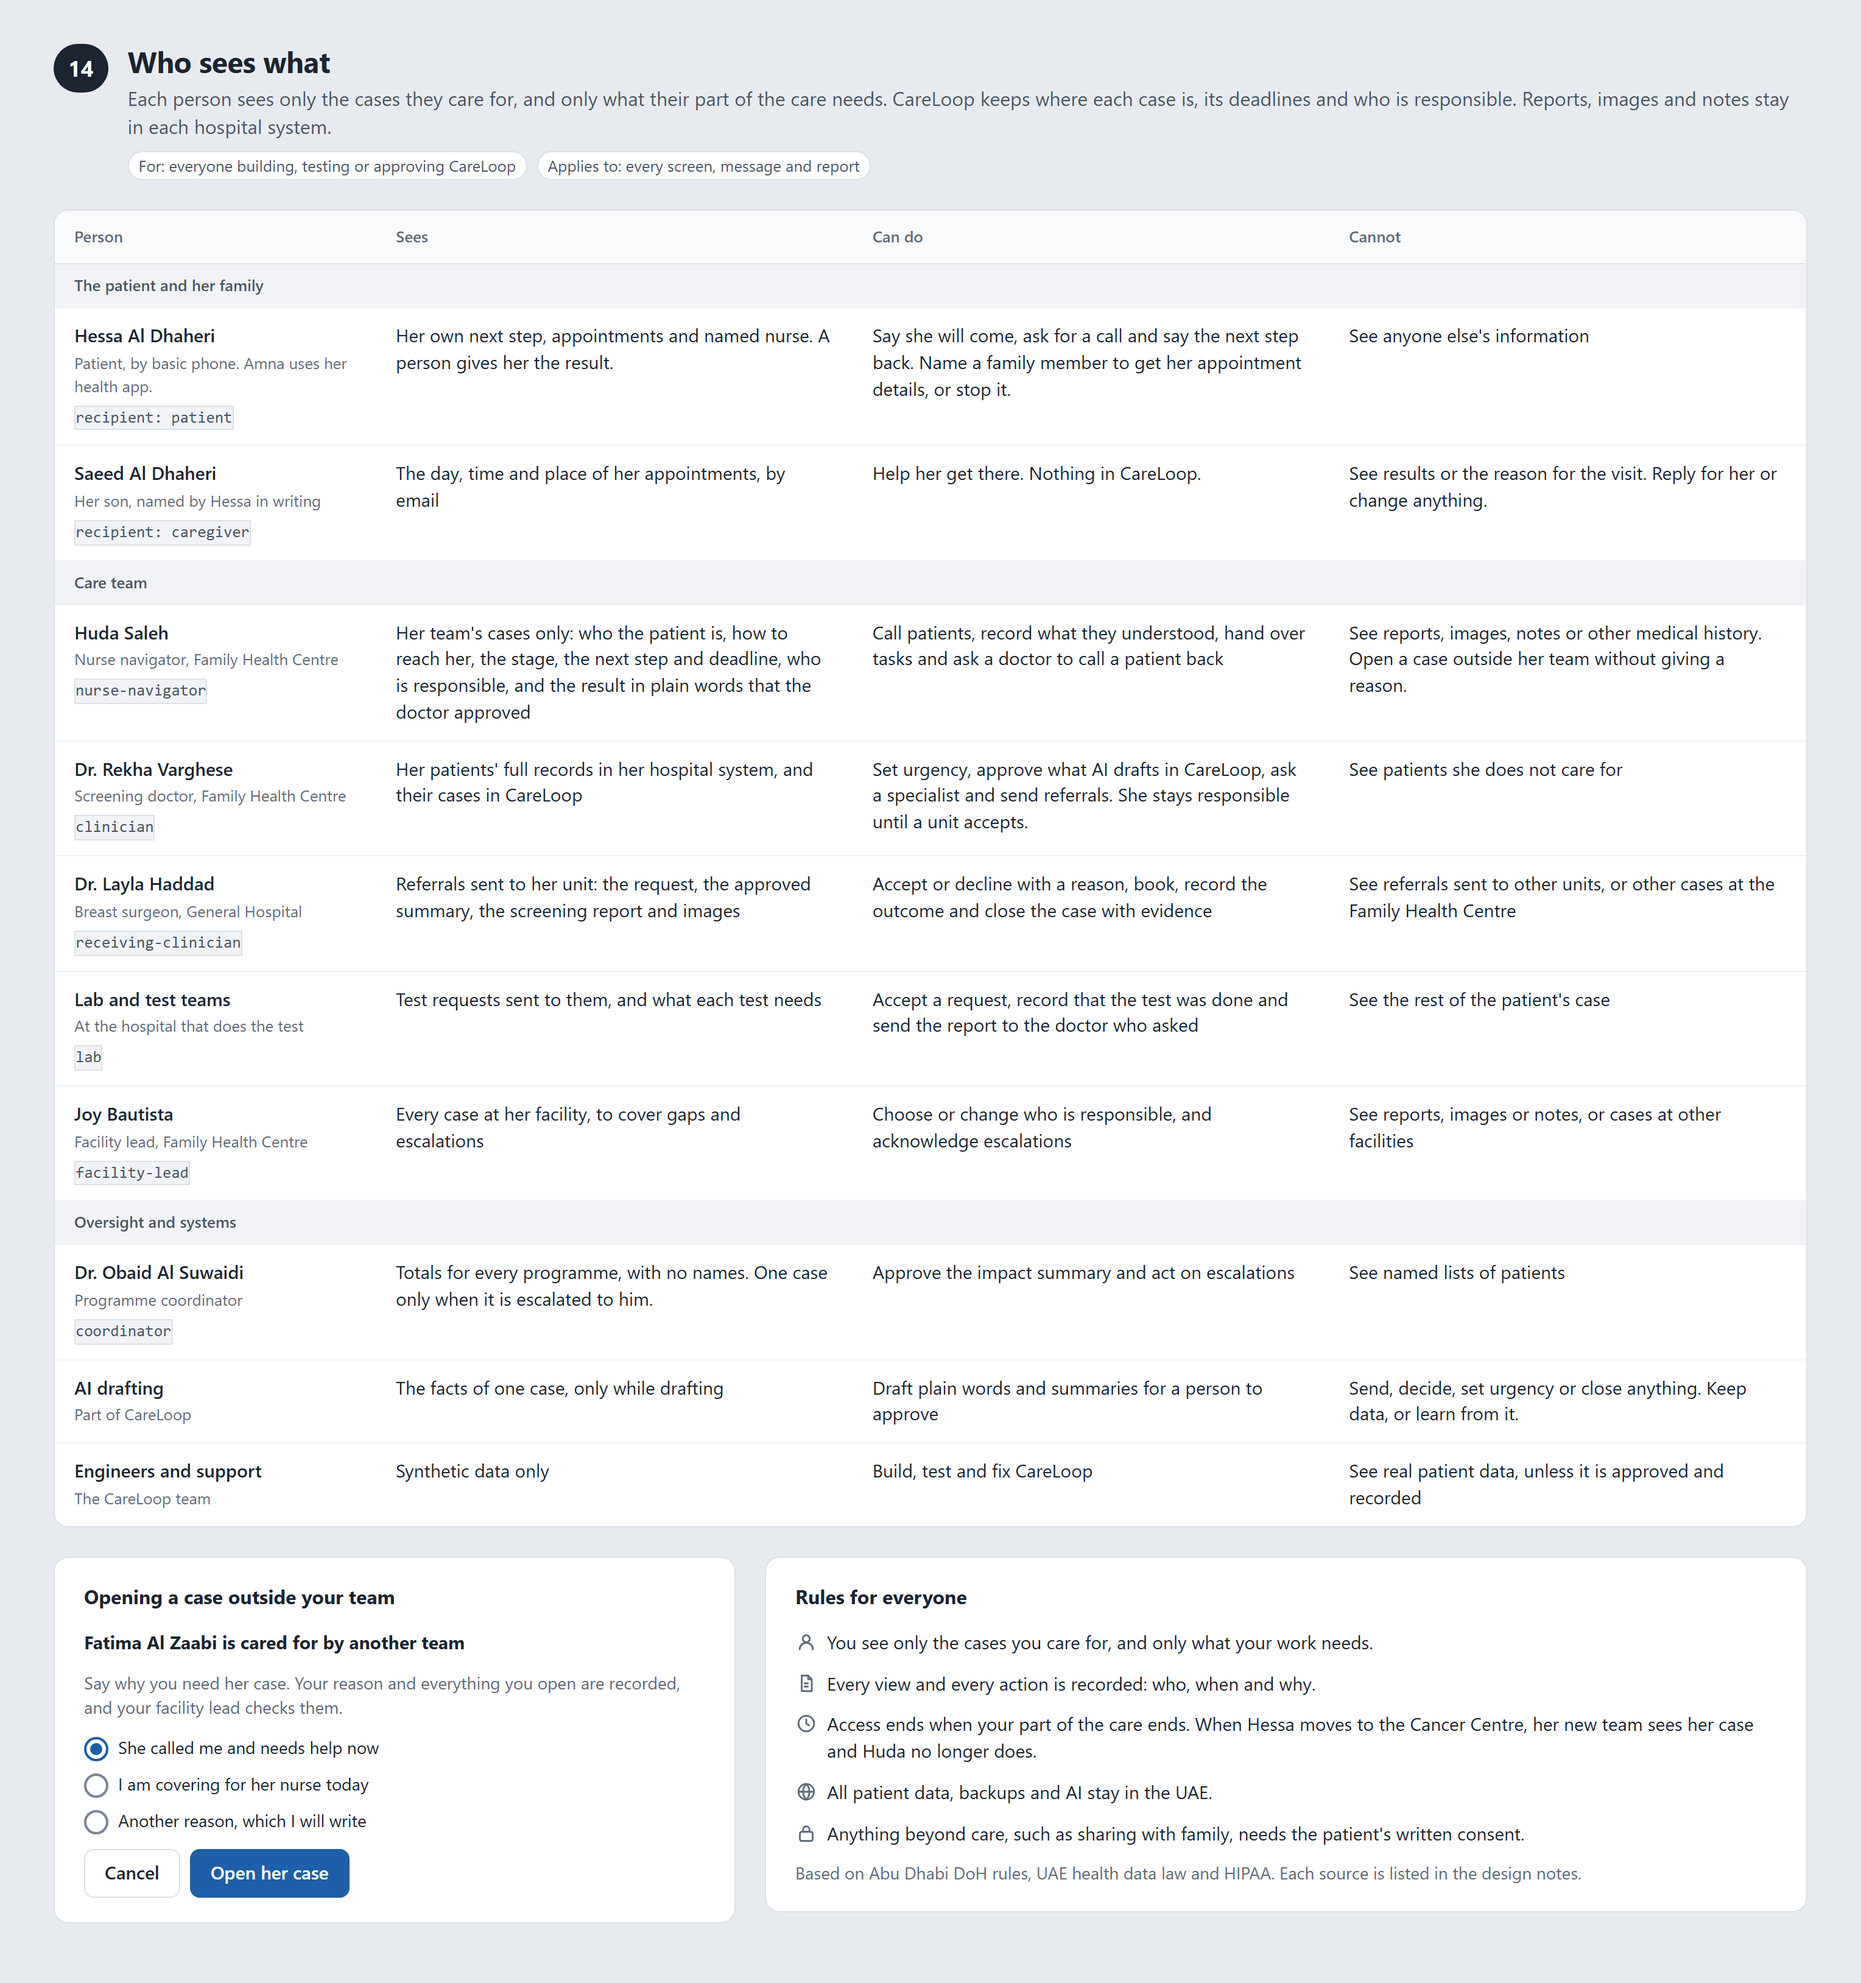
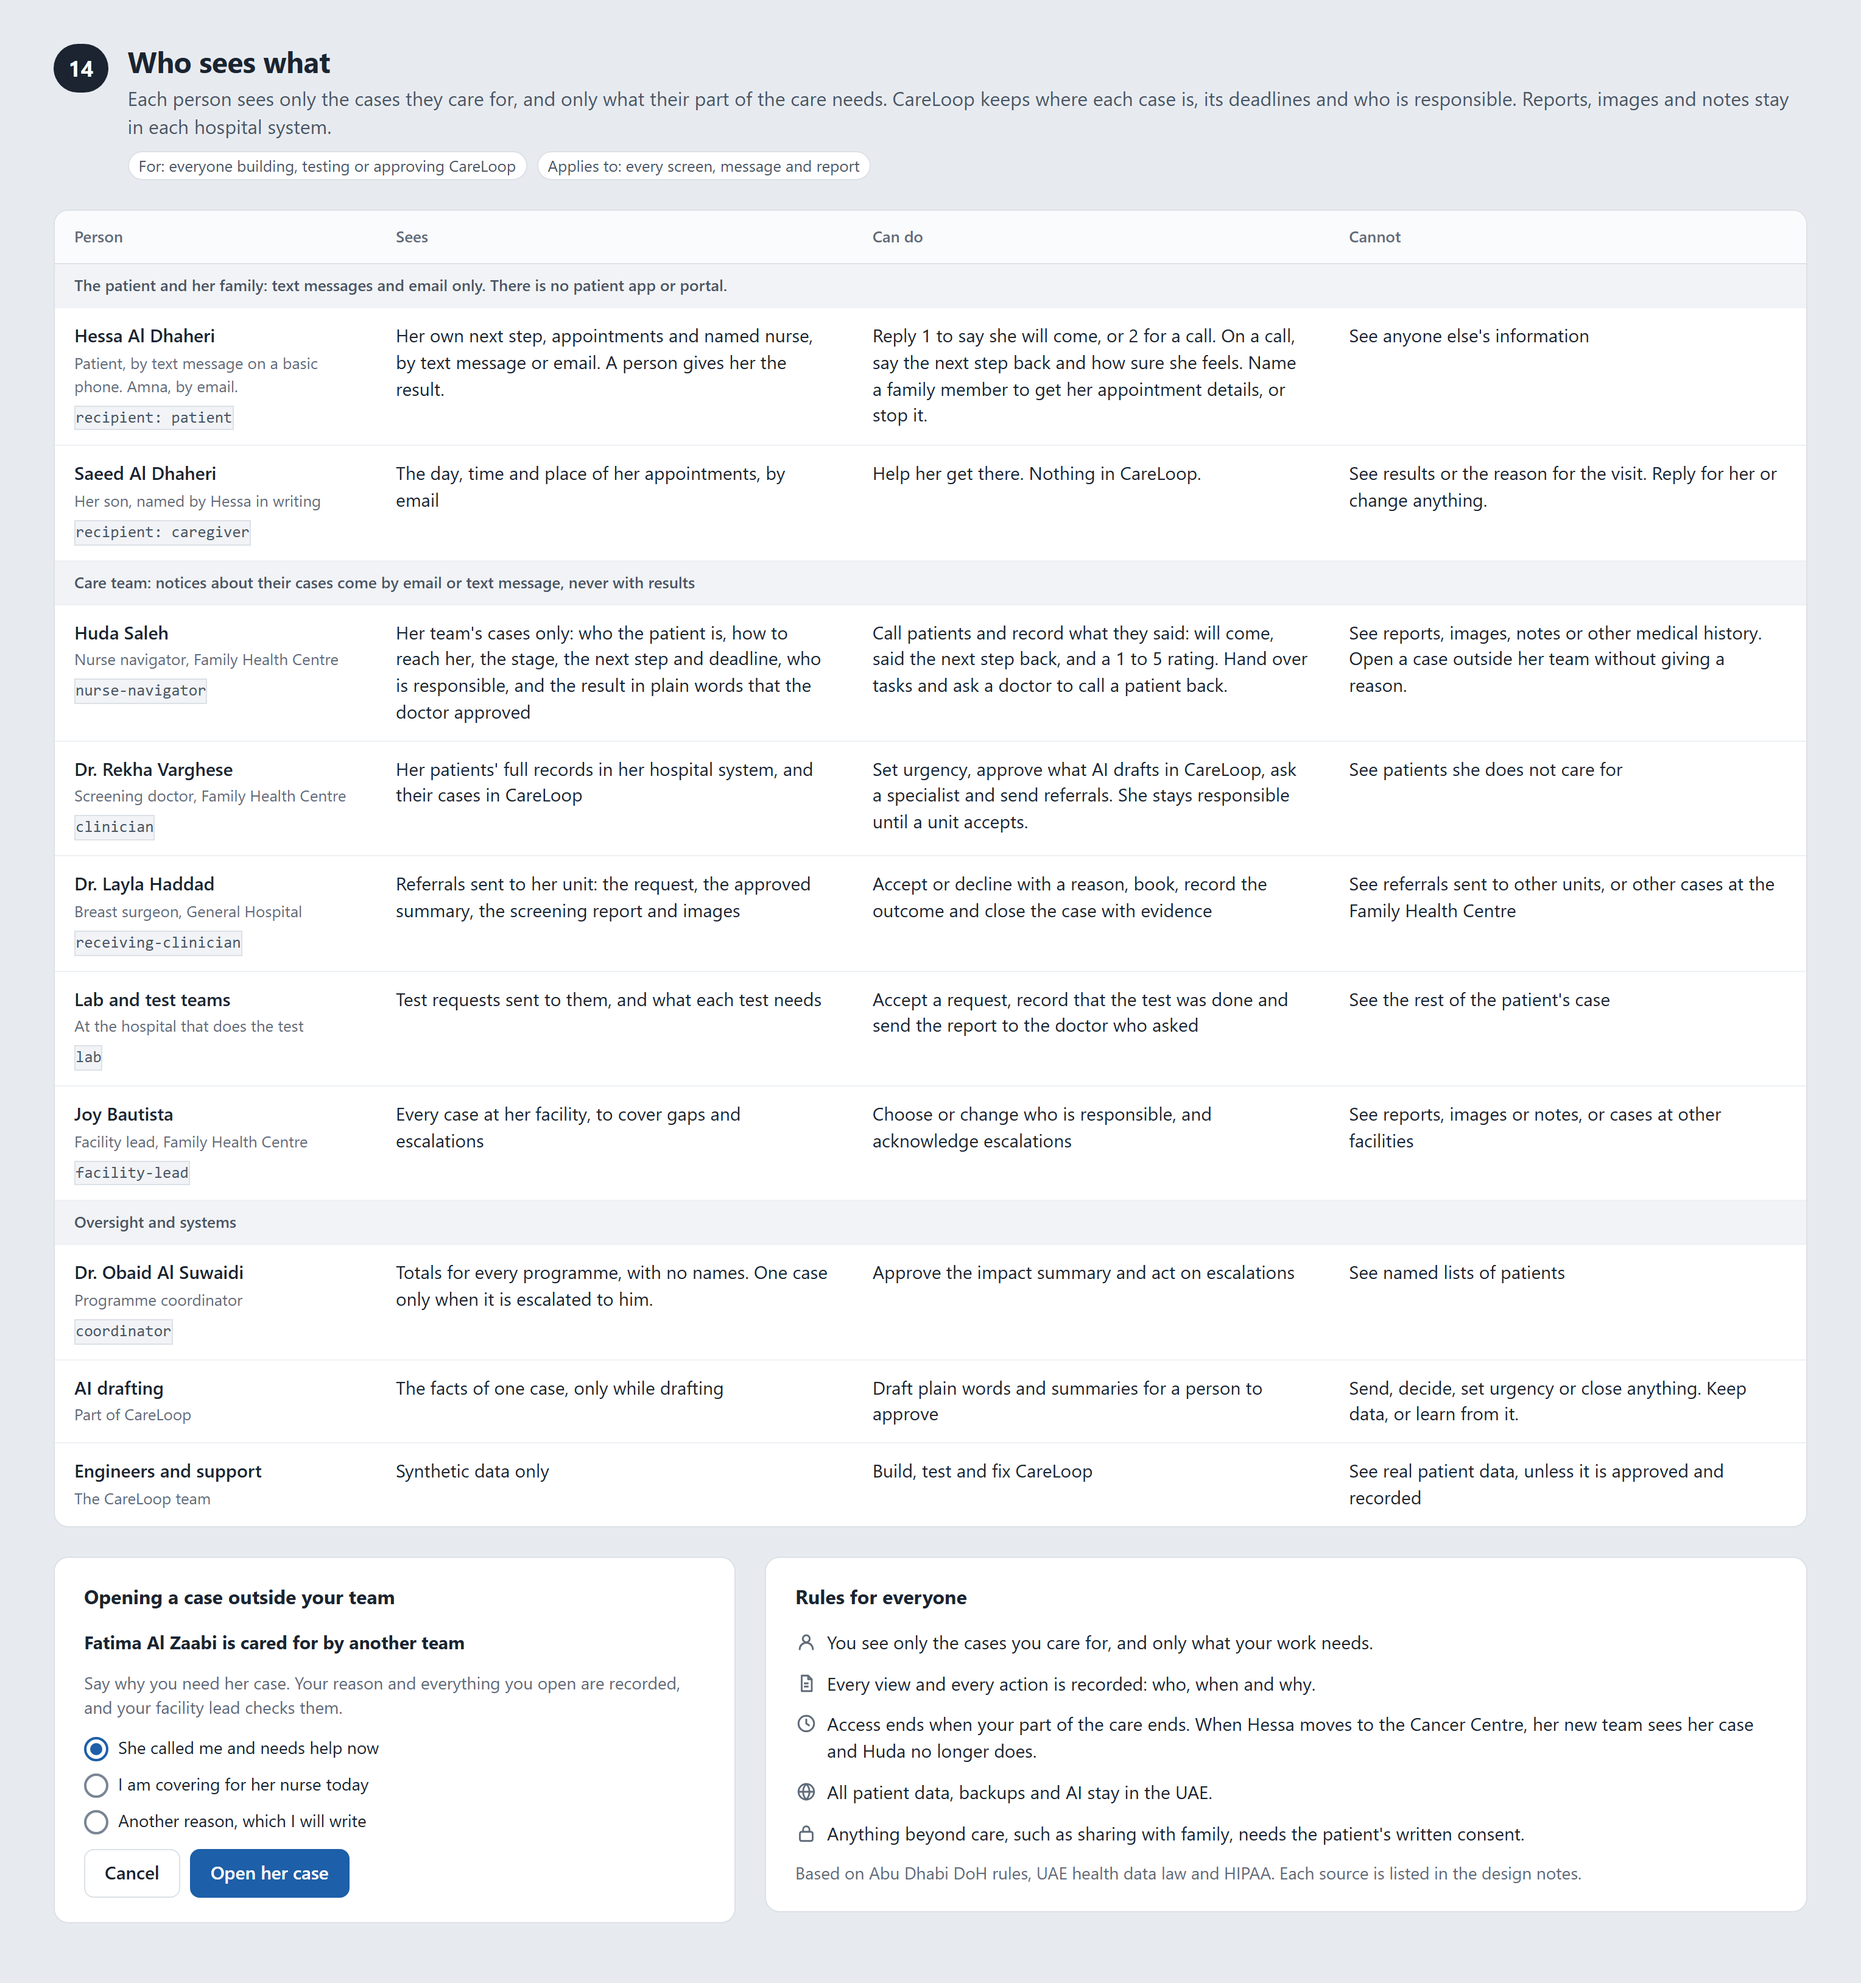
Show text, email and staff notices on who sees what (P21)
Hessa is reached by text message and Amna by email, with no patient app or portal. Staff
notices come by email or text message, never with results, at one address per role
(decisions 21, 27 and 28). The nurse navigator records what a patient said on a call.

diff --git a/docs/ui-design/README.md b/docs/ui-design/README.md
@@ -93,7 +93,7 @@ Some events can arrive at any stage without moving it: `NotificationUpdated/Call
 
 ![Who sees what](14-who-sees-what.png)
 
-Each person sees only the cases they care for, and only what their part of the care needs. CareLoop keeps where each case is, its deadlines, who is responsible and links to records. Reports, images and notes stay in each hospital system, under that system's own access rules.
+Each person sees only the cases they care for, and only what their part of the care needs. CareLoop keeps where each case is, its deadlines, who is responsible and links to records. Reports, images and notes stay in each hospital system, under that system's own access rules. Patients and the family members they name are reached by text message and email only, with no app or portal.
 
 | Person | Role in CareLoop | Sees | Can do | Cannot |
 |---|---|---|---|---|
@@ -119,6 +119,7 @@ The rules behind the table:
 - **Data stays in the UAE.** All patient data, backups and AI processing stay in the UAE (DoH Standard, 4.1.4; Federal Law No. 2 of 2019, Article 13).
 - **Written consent for anything beyond care.** Sharing with family, or research that names patients, needs the patient's written consent (DoH Standard, 4.2.3; Federal Law No. 2 of 2019, Article 16; HIPAA, 45 CFR 164.510(b)).
 - **Automated calls check who answered.** When automated calls are added, a call gives no details until the person who answers says they are the patient.
+- **Staff notices come by email or text message.** Staff are told about tasks and escalations at one address per role, kept in CareLoop's settings (decisions 27 and 28), not in the hospital system's inbox. Like every message, a notice never carries a result.
 
 ## Screens
 
